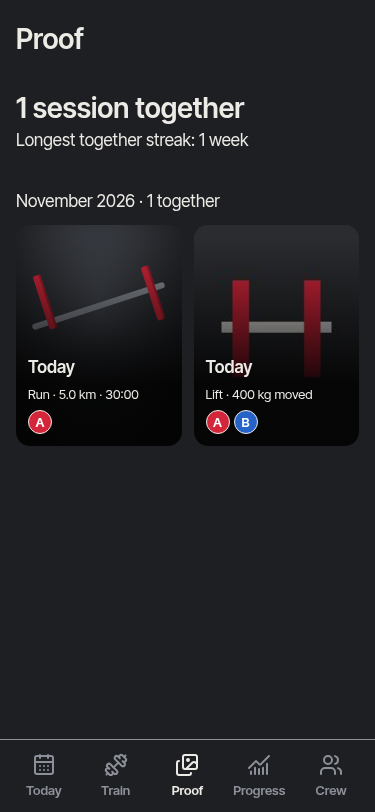
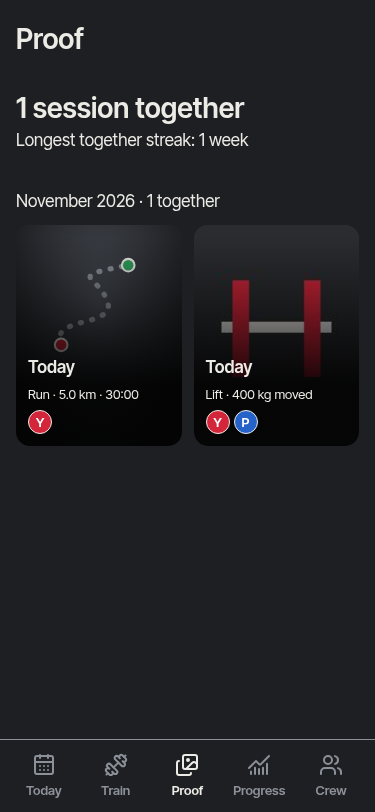
Y9: normalize Proof names and give runs a route placeholder

Changed region(s): [[0.088, 0.3079, 0.44, 0.431], [0.5573, 0.4926, 0.5867, 0.5234], [0.088, 0.4926, 0.1173, 0.5234]]

diff --git a/src/features/proof/ProofScreen.tsx b/src/features/proof/ProofScreen.tsx
@@ -9,6 +9,7 @@ import { copy, fill } from '../../ui/copy.ts';
 import { feel } from '../../ui/feel/feel.ts';
 import { startViewTransition } from '../../ui/motion/viewTransition.ts';
 import { cardDetails, loadProof, longestStreak, type ProofData } from './model.ts';
+import { proofDisplayName } from './names.ts';
 import { ProofMedia } from './ProofMedia.tsx';
 import { ProofViewer } from './ProofViewer.tsx';
 import './proof.css';
@@ -58,7 +59,7 @@ function ProofWall({ data }: { data: ProofData }) {
           const details = cardDetails(card, data);
           return <article key={card.id} className={`proof-card${newCards.has(card.id) ? ' proof-card--new' : ''}`}>
             <button className="proof-card__open" onClick={() => open(card.id)} aria-label={`${formatDate(card.day, data.today, copy)} · ${details.title}`}>
-              <div className="proof-card__image" style={{ viewTransitionName: selected ? 'none' : `proof-${card.id}` }}><ProofMedia photo={card.photos[0]} volume={details.volume} /></div>
+              <div className="proof-card__image" style={{ viewTransitionName: selected ? 'none' : `proof-${card.id}` }}><ProofMedia kind={card.kind} photo={card.photos[0]} volume={details.volume} /></div>
               <span className="proof-card__scrim" />
               <span className="proof-card__text"><time dateTime={card.day}>{formatDate(card.day, data.today, copy)}</time><span className="proof-chip">{details.title}</span><Avatars card={card} data={data} />{details.pr && <span className="proof-pr">{copy.y9Pr}</span>}</span>
             </button>
@@ -73,6 +74,6 @@ export function Avatars({ card, data }: { card: ProofCardWithMedia; data: ProofD
   const ids = card.together ? [card.created_by, ...data.profiles.map((p) => p.id).filter((id) => id !== card.created_by)].slice(0, 2) : [card.created_by];
   return <span className="proof-avatars" aria-label={card.together ? copy.y9Together : copy.y9Solo}>{ids.map((id) => {
     const profile = data.profiles.find((p) => p.id === id);
-    return <span key={id} title={profile?.display_name} style={{ background: id === data.me?.id ? 'var(--plate-red)' : 'var(--plate-blue)' }}>{profile?.initial ?? '•'}</span>;
+    return <span key={id} title={proofDisplayName(profile?.display_name, id === data.me?.id ? copy.x7You : copy.x3Partner)} style={{ background: id === data.me?.id ? 'var(--plate-red)' : 'var(--plate-blue)' }}>{profile?.initial ?? '•'}</span>;
   })}</span>;
 }

diff --git a/src/features/proof/ProofPrompt.tsx b/src/features/proof/ProofPrompt.tsx
@@ -3,6 +3,7 @@ import { useLiveQuery } from 'dexie-react-hooks';
 import { useRepo } from '../../app/useRepo.ts';
 import { Button, Sheet, copy, fill } from '../../ui';
 import { feel } from '../../ui/feel/feel.ts';
+import { proofDisplayName } from './names.ts';
 import { consumeSelectedPhoto } from './photoSelection.ts';
 import type { ProofPromptInput } from './promptContext.ts';
 import './proof.css';
@@ -20,7 +21,7 @@ export default function ProofPrompt({ input, onDone }: { input: ProofPromptInput
   const partner = useLiveQuery(async () => {
     const [me, crew] = await Promise.all([repo.q.me(), repo.q.myCrew()]);
     const id = crew?.members.find((m) => m.user_id !== me?.id && !m.left_at)?.user_id;
-    return id ? (await repo.q.profiles([id]))[0]?.display_name || copy.y9Partner : null;
+    return id ? proofDisplayName((await repo.q.profiles([id]))[0]?.display_name) : null;
   }, [repo]);
   async function save(withPartner: boolean, file?: File, dismiss = false) {
     if (saving.current) { if (dismiss) onDone(); return; }
@@ -53,7 +54,7 @@ export default function ProofPrompt({ input, onDone }: { input: ProofPromptInput
         <input ref={camera} hidden type="file" accept="image/*" capture="environment" aria-label={copy.y9TakePhoto} onChange={(event) => { void consumeSelectedPhoto(event.currentTarget, (file) => save(together, file)); }} />
         <input ref={library} hidden type="file" accept="image/*" aria-label={copy.y9ChoosePhoto} onChange={(event) => { void consumeSelectedPhoto(event.currentTarget, (file) => save(together, file)); }} />
       </> : <>
-        <Button size="xl" aria-pressed={together} disabled={!partner} onClick={() => choose(true)}>{fill(copy.y9With, { partner: partner || copy.y9Partner })}</Button>
+        <Button size="xl" aria-pressed={together} disabled={!partner} onClick={() => choose(true)}>{fill(copy.y9With, { partner: partner ?? copy.x3Partner })}</Button>
         <Button size="xl" variant="secondary" aria-pressed={!together} onClick={() => choose(false)}>{copy.y9Solo}</Button>
       </>}
       {busy && <p role="status">{copy.y9Saving}</p>}

diff --git a/src/features/proof/ProofMedia.tsx b/src/features/proof/ProofMedia.tsx
@@ -1,9 +1,9 @@
 import { useEffect, useRef, useState } from 'react';
 import { useRepo } from '../../app/useRepo.ts';
-import type { ProofPhoto } from '../../core/types.ts';
+import type { ProofKind, ProofPhoto } from '../../core/types.ts';
 import { copy } from '../../ui/copy.ts';
 
-export function ProofMedia({ photo, eager = false, volume = 0 }: { photo?: ProofPhoto; eager?: boolean; volume?: number }) {
+export function ProofMedia({ photo, eager = false, volume = 0, kind = 'lift' }: { photo?: ProofPhoto; eager?: boolean; volume?: number; kind?: ProofKind }) {
   const repo = useRepo();
   const box = useRef<HTMLDivElement>(null);
   const [visible, setVisible] = useState(eager || typeof IntersectionObserver === 'undefined');
@@ -42,10 +42,14 @@ export function ProofMedia({ photo, eager = false, volume = 0 }: { photo?: Proof
   }, [repo, photo, key, visible, retry]);
   return <div ref={box} className="proof-media">
     <div className="proof-placeholder" aria-hidden={photo ? true : undefined} aria-label={copy.y9NoPhoto} role="img">
-      <span className="proof-bar" />
+      {kind === 'run' ? <svg className="proof-route" viewBox="0 0 120 120" aria-hidden="true" focusable="false">
+        <path d="M24 94 C12 66 78 78 68 52 S28 30 88 18" />
+        <circle className="proof-route__start" cx="24" cy="94" r="6" />
+        <circle className="proof-route__finish" cx="88" cy="18" r="6" />
+      </svg> : <><span className="proof-bar" />
       {[0, 1].map((side) => <span key={side} className={`proof-plates proof-plates--${side}`}>
         {['red', 'blue', 'yellow', 'green'].slice(0, Math.max(1, Math.min(4, Math.ceil(volume / 500)))).map((color) => <i key={color} style={{ background: `var(--plate-${color})` }} />)}
-      </span>)}
+      </span>)}</>}
     </div>
     {media?.key === key && <>
       {media.small && loaded !== key && <img className="proof-media__blur" src={media.small} alt="" aria-hidden="true" />}

diff --git a/src/features/proof/names.test.tsx b/src/features/proof/names.test.tsx
@@ -1,0 +1,29 @@
+// @vitest-environment jsdom
+import { cleanup, render, screen } from '@testing-library/react';
+import { afterEach, describe, expect, it, vi } from 'vitest';
+import { RepoContext } from '../../app/repoContext.ts';
+import type { Repo } from '../../data/adapter.ts';
+import { copy } from '../../ui/copy.ts';
+import ProofPrompt from './ProofPrompt.tsx';
+import { proofDisplayName } from './names.ts';
+
+afterEach(cleanup);
+describe('Proof profile names', () => {
+  it.each(['', '   ', copy.x3LegacyName, ` ${copy.x3LegacyName} `, undefined])('uses Partner for an unset or legacy name (%s)', (name) => {
+    expect(proofDisplayName(name)).toBe(copy.x3Partner);
+  });
+  it('preserves a name and supports the self fallback used by card avatars', () => {
+    expect(proofDisplayName(' Crewmate ')).toBe('Crewmate');
+    expect(proofDisplayName(copy.x3LegacyName, copy.x7You)).toBe(copy.x7You);
+  });
+  it.each([copy.x3LegacyName, '  '])('the together prompt displays With Partner for %s', async (name) => {
+    const repo = { q: {
+      me: async () => ({ id: 'self' }),
+      myCrew: async () => ({ members: [{ user_id: 'partner', left_at: null }] }),
+      profiles: async () => [{ display_name: name }],
+    } } as unknown as Repo;
+    render(<RepoContext value={repo}><ProofPrompt input={{ kind: 'run', day: '2026-11-03', entryRef: { table: 'cardio_entries', id: 'run' } }} onDone={vi.fn()} /></RepoContext>);
+    expect(await screen.findByRole('button', { name: 'With Partner' })).toBeTruthy();
+    expect(screen.queryByRole('button', { name: 'With Athlete' })).toBeNull();
+  });
+});

diff --git a/src/features/proof/model.ts b/src/features/proof/model.ts
@@ -3,6 +3,7 @@ import type { DayEntries, Repo } from '../../data/adapter.ts';
 import { volume as workingVolume } from '../../core/volume.ts';
 import { recomputePrs } from '../../core/prs.ts';
 import { localDateOf } from '../../core/weeks.ts';
+import { proofDisplayName } from './names.ts';
 import { copy, fill } from '../../ui/copy.ts';
 import { formatClock, formatKm, formatPace } from '../quicklog/time.ts';
 
@@ -30,7 +31,12 @@ export async function loadProof(repo: Repo) {
   const [me, crew, exercises, prs] = await Promise.all([repo.q.me(), repo.q.myCrew(), repo.q.exercises(), repo.q.prEvents({})]);
   const today = localDateOf(new Date().toISOString(), me?.tz ?? 'UTC');
   const users = crew?.members.filter((m) => !m.left_at).map((m) => m.user_id) ?? [];
-  const profiles = await repo.q.profiles(users);
+  const profiles = (await repo.q.profiles(users)).map((profile) => {
+    const fallback = profile.id === me?.id ? copy.x7You : copy.x3Partner;
+    const displayName = proofDisplayName(profile.display_name, fallback);
+    const legacy = !profile.display_name.trim() || profile.display_name.trim() === copy.x3LegacyName;
+    return { ...profile, display_name: displayName, initial: legacy ? displayName.charAt(0) : profile.initial };
+  });
   const histories = await Promise.all(users.map((id) => repo.q.entriesBetween(id, '0001-01-01', '9999-12-31')));
   const dates = [today, ...(crew?.members.map((m) => m.joined_at.slice(0, 10)) ?? []), ...histories.flatMap((h) => [...h.sessions, ...h.cardio, ...h.martial].map((row) => row.local_date))].sort();
   const earliest = dates[0] ?? today;

diff --git a/src/features/proof/ProofViewer.tsx b/src/features/proof/ProofViewer.tsx
@@ -53,7 +53,7 @@ export function ProofViewer({ card, data, onClose, onChange }: { card: ProofCard
       onPointerDown={(event) => { gesture.current = { x: event.clientX, y: event.clientY }; }}
       onPointerUp={(event) => { const start = gesture.current; gesture.current = null; if (!start) return; const dx = event.clientX - start.x; if (Math.abs(dx) > 60 && Math.abs(dx) > Math.abs(event.clientY - start.y) * 1.5) move(dx < 0 ? 1 : -1); }}
       onPointerCancel={() => { gesture.current = null; }}>
-      {card.photos.length ? card.photos.map((photo) => <ProofMedia key={photo.id} photo={photo} eager />) : <ProofMedia volume={details.volume} eager />}
+      {card.photos.length ? card.photos.map((photo) => <ProofMedia key={photo.id} kind={card.kind} photo={photo} eager />) : <ProofMedia kind={card.kind} volume={details.volume} eager />}
     </div>
     <div className="proof-viewer__paging"><button disabled={index === 0 || busy} onClick={() => move(-1)}>{copy.y9Previous}</button><button disabled={index === data.cards.length - 1 || busy} onClick={() => move(1)}>{copy.y9Next}</button></div>
     <section className="proof-viewer__details" aria-label={copy.y9Details}>

diff --git a/src/features/proof/proof.css b/src/features/proof/proof.css
@@ -18,6 +18,11 @@
 .proof-media__photo.is-loaded { opacity: 1; }
 .proof-media__retry { position: absolute; top: 12px; inset-inline: 8px; z-index: 2; min-height: 44px; color: #edebe6; background: #1e1f22; border: 1px solid #8c9199; border-radius: 8px; }
 .proof-placeholder { position: absolute; inset: 0; background: radial-gradient(ellipse at 50% 35%, #454951, #1e1f22 80%); }
+.proof-route { position: absolute; top: 8%; left: 12%; width: 76%; height: 60%; overflow: visible; }
+.proof-route path { fill: none; stroke: var(--steel); stroke-width: 5; stroke-linecap: round; stroke-dasharray: 1 10; }
+.proof-route circle { stroke: #edebe6; stroke-width: 2; }
+.proof-route__start { fill: var(--plate-red); }
+.proof-route__finish { fill: var(--plate-green); }
 .proof-bar { position: absolute; inset: 35% 8% auto; height: 6px; border-radius: 3px; background: #8c9199; transform: rotate(-18deg); }
 .proof-plates { position: absolute; top: 22%; left: 15%; display: flex; align-items: center; gap: 2px; transform: rotate(-18deg); }
 .proof-plates--1 { left: auto; right: 15%; top: 18%; flex-direction: row-reverse; }

diff --git a/tests/e2e/y9-proof.spec.ts b/tests/e2e/y9-proof.spec.ts
@@ -78,7 +78,10 @@ test.describe('Y9 Proof', () => {
     await expect(cards).toHaveCount(2);
     const boxes = await cards.evaluateAll((nodes) => nodes.map((n) => { const r = n.getBoundingClientRect(); return { x: r.x, y: r.y }; }));
     expect(boxes[0]!.y).toBe(boxes[1]!.y); expect(boxes[1]!.x).toBeGreaterThan(boxes[0]!.x);
-    await expect(page.locator('.proof-card').filter({ hasText: /^.*Run/s }).locator('img')).toHaveCount(0);
+    const runCard = page.locator('.proof-card').filter({ hasText: /^.*Run/s });
+    await expect(runCard.locator('img')).toHaveCount(0);
+    await expect(runCard.locator('.proof-route')).toBeVisible();
+    await expect(runCard.locator('.proof-bar')).toHaveCount(0);
     await assertQuality(page); await capture(page, 'proof-filled');
     await cards.filter({ has: page.locator('img') }).getByRole('button').click();
     const viewer = page.getByRole('dialog', { name: copy.y9Title, exact: true });

diff --git a/src/features/proof/names.ts b/src/features/proof/names.ts
@@ -1,0 +1,7 @@
+import { copy } from '../../ui/copy.ts';
+
+/** Match Crew and Progress for profiles saved before names were required. */
+export function proofDisplayName(name: string | undefined, fallback: string = copy.x3Partner): string {
+  const trimmed = name?.trim();
+  return trimmed && trimmed !== copy.x3LegacyName ? trimmed : fallback;
+}

diff --git a/src/features/proof/review/README.md b/src/features/proof/review/README.md
@@ -6,6 +6,10 @@ All PNGs and the GIF are 375×812 at device scale 1 in system Chromium with the 
 
 The frozen Playwright configuration discovers `p*-*.spec.ts`, so `p7-shell.spec.ts` imports `y9-proof.spec.ts`. Run the new scenarios with `npx playwright test p7-shell.spec.ts -g 'Y9 Proof'`. They check an offline photo, solo placeholder, both close defaults, caption, replace/remove, swipe/button navigation, the Crew deep link, axe AA, and target/viewport bounds.
 
-WebKit downloads are denied by this environment's network policy. The Lead authorized the WebKit baseline refresh after CI run 42729327099. All 34 replacements are byte-for-byte copies of its x11-visual-diffs retry actual PNGs: 30 differ only in the tab bar; two Crew images additionally have eight one-level RGB rasterization differences on an unchanged SVG grip; two run-save images show the required Y9 together prompt instead of the previous confirmation sheet. No screenshot assertions or tolerances changed.
+WebKit downloads are denied by this environment's network policy. The Lead authorized the WebKit baseline refresh after CI run 42729327099. At that point, all 34 replacements were byte-for-byte copies of its x11-visual-diffs retry actual PNGs: 30 differ only in the tab bar; two Crew images additionally have eight one-level RGB rasterization differences on an unchanged SVG grip; two run-save images show the required Y9 together prompt instead of the previous confirmation sheet. No screenshot assertions or tolerances changed.
 
 The photo-input follow-up keeps camera/library selections alive through async card creation and image decoding, including viewer replacement. A shared helper resets only after the consumer settles; three unit cases cover pending readers, failed readers, and cancelled selection.
+
+The name follow-up shares `proofDisplayName` between the prompt and Proof profile/card presentation: blank names and the legacy default become Partner (or You for the viewer's own profile). Eight name cases include rendered “With Partner” assertions. Run cards and their viewer now use a static dotted route with red/green endpoints. The prompt, filled wall, and GIF were recaptured at 375×812.
+
+Both run-save WebKit baselines were refreshed with native WebKit revision 2370, packaged with Playwright 1.64.1 in Browserless v2.59.0 and run in an isolated runtime. All pixels outside the button label are identical to the previous CI baselines; the changed rectangle is (139, 621) to (236, 635) for both themes. Both populated-screen suites and both onboarding suites passed unchanged. Local photo-flow validation in that isolated runtime is limited by a generic IndexedDB Blob-storage error: a separate probe fails for plain, canvas-created, and copied Blobs both online and offline. Chromium Proof flows pass; CI remains responsible for photo storage verification on its configured runtime.
